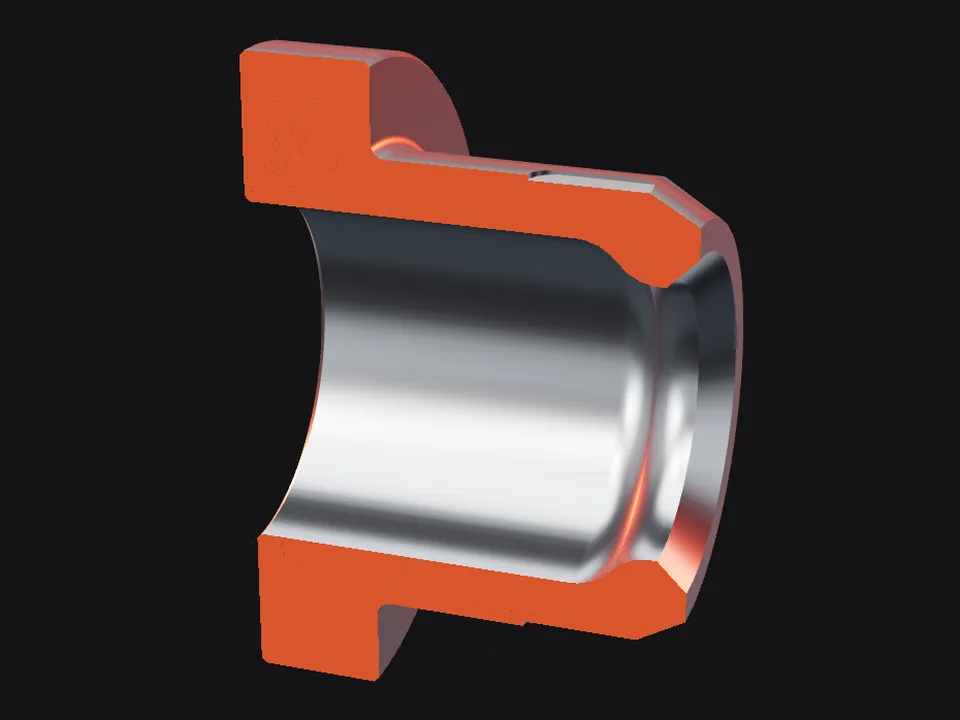
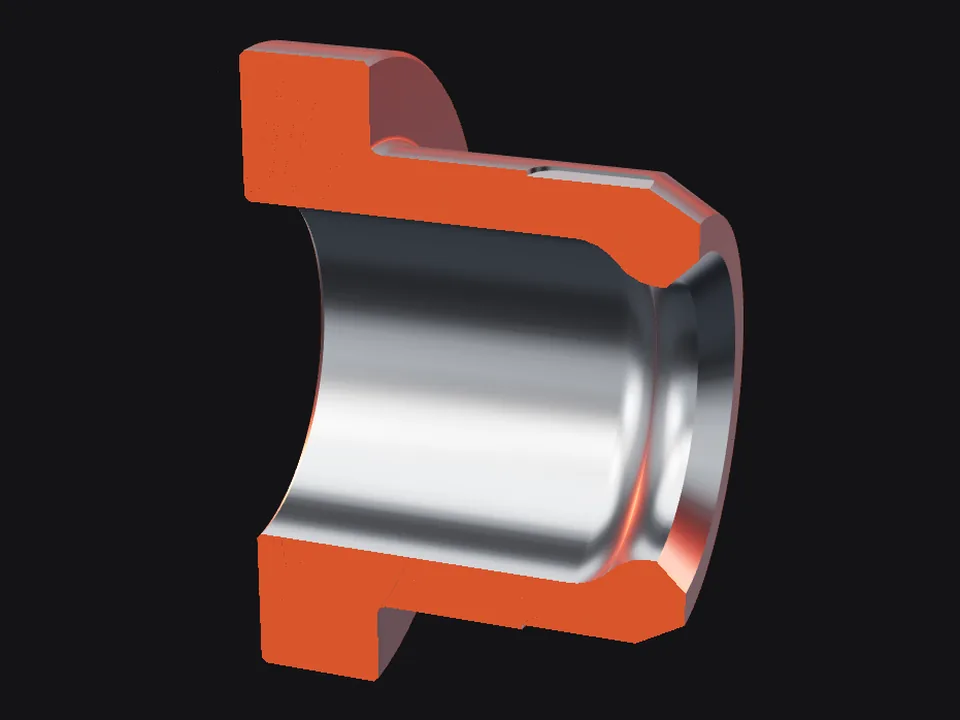
feat(shop): settle the held thrust rings from archive research
- MTB 360 E-type thrust ring (the 4340 sheet; its title was copied from
  the ara burç sheet), MES 4000 old-type ring, MTB 150 greasing-hole ring.
- Montabert BRH 250: our general Ø138.7 ring replaces the one-customer
  (Bulgaria) sheet.
- Rammer S56 oil-groove ring: spigot Ø182 as dimensioned.
- GA (İnan Makina, Furukawa-based), LB (Leetec names), MTB-180 (MTB 220's
  first ring) stay unpublished; reasons in CLAUDE.md.

Claude-Session: https://claude.ai/code/session_01RSQdZzwnmEDvhT42Xh181c

Changed region(s): [[0.375, 0.1833, 0.75, 0.3361], [0.4688, 0.8556, 0.7188, 0.9167], [0.4062, 0.825, 0.4688, 0.8556]]

diff --git a/apps/parts-shop/src/lib/photos.ts b/apps/parts-shop/src/lib/photos.ts
@@ -66,7 +66,8 @@ export interface PartRender {
     | 'typeE'
     | 'typeL'
     | 'typeT'
-    | 'oilGroove';
+    | 'oilGroove'
+    | 'greasingHole';
   views: { base: string; view: RenderView }[];
 }
 
@@ -462,6 +463,12 @@ const MTB_BURC: Bushing[] = [
   { model: '150', file: 'mtb-150-ust', kind: 'upperBushing' },
   { model: '150', file: 'mtb-150-dayama-y', kind: 'thrustRing', variant: 'typeY' },
   { model: '150', file: 'mtb-150-dayama-e', kind: 'thrustRing', variant: 'typeE' },
+  {
+    model: '150',
+    file: 'mtb-150-dayama-yaglama-delikli',
+    kind: 'thrustRing',
+    variant: 'greasingHole',
+  },
   { model: '170', file: 'mtb-170-kafa', kind: 'toolBushing' },
   { model: '170', file: 'mtb-170-ust', kind: 'upperBushing' },
   { model: '170', file: 'mtb-170-dayama-y', kind: 'thrustRing', variant: 'typeY' },
@@ -491,6 +498,7 @@ const MTB_BURC: Bushing[] = [
   { model: '360', file: 'mtb-360-kafa', kind: 'toolBushing' },
   { model: '360', file: 'mtb-360-ust', kind: 'upperBushing' },
   { model: '360', file: 'mtb-360-dayama-y', kind: 'thrustRing', variant: 'typeY' },
+  { model: '360', file: 'mtb-360-dayama-e', kind: 'thrustRing', variant: 'typeE' },
   { model: '500', file: 'mtb-500-kafa', kind: 'toolBushing' },
   { model: '500', file: 'mtb-500-ust', kind: 'thrustRing' },
   { model: '700', file: 'mtb-700-kafa', kind: 'toolBushing' },
@@ -639,7 +647,7 @@ const SOOSAN_BURC: Bushing[] = [
 const MONTABERT_BURC: Bushing[] = [
   { model: 'BRH 125', file: 'montabert-brh-125-kafa', kind: 'toolBushing' },
   { model: 'BRH 250', file: 'montabert-brh-250-kafa', kind: 'toolBushing' },
-  { model: 'BRH 250', file: 'montabert-brh-250-ust', kind: 'thrustRing' },
+  { model: 'BRH 250', file: 'montabert-brh-250-dayama', kind: 'thrustRing' },
   { model: 'BRH 270', file: 'montabert-brh-270-kafa', kind: 'toolBushing' },
   { model: 'BRH 501', file: 'montabert-brh-501-kafa', kind: 'toolBushing' },
   { model: 'BRH 501', file: 'montabert-brh-501-ust', kind: 'thrustRing' },
@@ -802,6 +810,12 @@ const INDECO_BURC: Bushing[] = [
   },
   { model: 'MES 4000', file: 'indeco-mes-4000-kafa', kind: 'toolBushing' },
   { model: 'MES 4000', file: 'indeco-mes-4000-ust', kind: 'thrustRing' },
+  {
+    model: 'MES 4000',
+    file: 'indeco-mes-4000-dayama-eski',
+    kind: 'thrustRing',
+    variant: 'oldType',
+  },
   { model: 'MES 7000', file: 'indeco-mes-7000-kafa', kind: 'toolBushing' },
   { model: 'MES 7000', file: 'indeco-mes-7000-ust', kind: 'spacerBushing' },
   { model: 'MES 7000', file: 'indeco-mes-7000-dayama', kind: 'thrustRing' },

diff --git a/apps/parts-shop/src/lib/dict.ts b/apps/parts-shop/src/lib/dict.ts
@@ -697,6 +697,7 @@ export const DICT: Record<Lang, Dict> = {
         typeL: 'L tipi',
         typeT: 'T tipi',
         oilGroove: 'yağ kanallı',
+        greasingHole: 'yağlama delikli',
       },
       viewer: {
         open: '3B incele',
@@ -1176,6 +1177,7 @@ export const DICT: Record<Lang, Dict> = {
         typeL: 'L type',
         typeT: 'T type',
         oilGroove: 'oil grooves',
+        greasingHole: 'greasing hole',
       },
       viewer: {
         open: 'View in 3D',

diff --git a/CLAUDE.md b/CLAUDE.md
@@ -70,7 +70,7 @@ Unit tests exist only for `@kervan/tips` (Node's built-in runner, `node --experi
 
 ### parts-shop (magaza.kervanbreaker.com) — M1 preview
 
-- **Static, no router, no server code.** Every page is prerendered with its props embedded as JSON (`<script id="kv-page">`) and hydrated by `main.tsx`; links are plain `<a>`. Pages: `/`, `/kirici-ucu` (every breaker model, live search with `?q=` from the home search box, A–Z make chips), `/marka/<make>`, `/cok-satanlar`, `/kirici/<make>/<model>` (the product page, one per breaker model), `/yedek-parca` + `/yedek-parca/{alt-govde,burc,kama,saplama,piston,akumulator,asinma-plakasi}` (the other parts we make: our stock photos, 3D renders of parts modelled from our drawings captioned with the breaker model they fit (`PART_RENDERS` in `src/lib/photos.ts`, e.g. Rammer E68 alt gövde; files in `public/photos/parca/`, same 4:3 naming as the photos; every part also gets a 16:9 showcase picture, `hero`; part renders publish one size only (`-lg`: 1600 px hero, 960 px views, plus the 320 px `-xs` strip thumbnail) because Pages allows at most 20,000 files per deployment (stock photos keep `-sm` + `-lg`), on the dark stage with an ember glow and floor reflection, used as the page lead and the card picture; a part may add an interactive 3D model, `model3d`, a GLB in `public/models/`, immutable, opened on demand by "3B incele" in `PartViewer`, a lazy chunk so three.js loads only on click; drag/pinch/arrow keys turn it, auto-turn stops on touch and is off under reduced motion — the only motion in the shop; its "Kesit" button adds a slider that sweeps a cross-section plane from end to end, the cut face drawn by the back faces in one flat ember tone; 3D is Rammer E68 only, owner's choice; its GLB is the front head with the kafa burcu, üst burç and dayama burcu (thrust ring, seated against the shoulder of the Ø225 bore, puller holes to the rear) fitted, the bushing nodes named `fitted…` so their cut faces show in light steel). The burç page shows our bushings in one strip per make (Rammer incl. E68 with its thrust ring, MTB, Krupp, Atlas Copco incl. HBC / SBC / TEX, Soosan, Montabert, Furukawa, NPK, Indeco, Daemo, Hanwoo, DNB, Cat, MSB incl. SAGA, Toku, Kwanglim, D&A, Topa, Mega, Kent, Kanglim, Okada, Toyo, Jisung, General, Lifton, Tabe, Arrowhead, Komac, Euroram, then the rock-drill thrust rings of Tamrock HL and Atlas Copco COP in their own strips; `burc-<make>-<model>-<kafa|ust>-{vitrin,on,arka,yan,kesit}-01`, lists `*_BURC` in `photos.ts`). Every thrust ring in the archive was gone through (owner: "tüm arşiv"): separate dayama burçları sit next to the model's merkezleme as `<file>-dayama[-<variant>]` (variants from the title block: MTB Y / E types, the E two-piece set modelled without its ara halka; Montabert L / T types; `oldType` by sheet date; Rammer S56 `oilGroove`); the Indeco MES 7000 part first published as a thrust ring is the dayama ara burcu, a spacer clamped behind it (`spacerBushing`). Held for the owner: GA 150 / 200 / 300 / 400 / GA-30 (no make in the title block), sheets that also print LB-200 (MTB 150 greased ring, MTB 150 hava-gres), MTB-180 (filed under MTB 170 / 220), MTB 360E (both sheets titled ara burç), a second Montabert BRH 250 ring and a second MES 4000 design (no type mark), a Furukawa ring with no model; HM 2100 is named Marathon after its folder (title block: HM 2100). `kind` names each in the caption and under the strip thumbnail, from the drawing's title block: kafa burcu = tool/lower bushing, üst burç = upper (merkezleme), dayama burcu = thrust ring, dayama-merkezleme burcu = thrust ring and upper bushing in one piece (owner: label combined ones so), Krupp HM 140 / 190, Atlas Copco SBC 610 and Tabe AGB 375 one piece for all three, Lifton LH 360 and Atlas Copco TEX 700 / 900 one piece kafa-merkezleme (`toolUpperBushing`). The "K" folder is Kent (K 50 / 70 / 90) and KTB is Kanglim (owner). Held back until the owner confirms the make or model: a KHB 20 sheet in the Stanley folder, Jacty VRH-100 in the Lifton folder, Toyo 5000 (title block names only Dehaco), the MSB 800 thrust ring titled LB 350; Toyo bushings use THBB names (no DHB). The kama, saplama and piston pages show the same 20 breaker models (`PART_KIT` in `photos.ts`, one strip per make): the tool pin / key (`retainerKey`), the through bolt "boy saplama" (`tieRod`) and the impact piston, one drawing each (`<part>-<make>-<model>-<view>-01`; kama on/arka/yan, saplama yan/on, piston on/arka/yan/kesit). More parts, one drawing each (`OtherPart` lists in `photos.ts`, files named after the drawing slug): retainer pins (`retainerPin`) join the kama page, side bolts (`sideBolt`) the saplama page; `akumulator` shows accumulator covers / bottoms / bolts and `asinma-plakasi` wear plates (rendered standing on their long edge, generator `standUp`, so the ember rim light does not wash over the large face). Wear plates are drawn in their material (generator `finish`): cast polyurethane in yellow (the colour our drawings give; red for HM 960, as its sheet says), polyamide natural (MTB 85, Rammer E64), steel for S84 (20MnCr5) and the Montabert BRH 501 / BRV 32 plates (tapped bolt holes); sheets without a material (Cat, D&A) are drawn as yellow PU (Cat sells its hammer wear plates as plastic). Left out: the HM 1300 side bolt (owner: same breaker as the unchecked HM 1301), sheets whose title block names another model, one-customer (ÖZEL) sheets, and a retainer-pin bushing that is not a pin. Bushings: left out are drawings whose title block names another model than their folder or that duplicate another sheet, the rough blank (KABA) MTB 250/255, HM 1301 (unchecked, like its front head), Furukawa HD drifters, crossed-out or faulty (HATALI) sheets and the E68 alt gövde adds an assembly section view (`assembly`); the N and City kafa burcu drawings belong to other E68 versions and are not modelled. Renders with a `series` (the 17 Rammer E/G/S front heads, `alt-govde-rammer-<model>-…-01`, led by the E68 with its 3D model (G88 has no window close-up: its nut notches render badly there), the 26 MTB front heads, `alt-govde-mtb-<model>-…-01`, the 23 Krupp HM/AT front heads, `alt-govde-krupp-<model>-…-<v>` (HM 560 and HM 580 share one drawing, shown as one card; HM 900 also has its old type, `variant: 'oldType'`), and 5 Atlas Copco HB/MB heads, `alt-govde-atlas-copco-…` (owner: named Atlas Copco, the badge they were sold under after Atlas Copco bought Krupp's breakers in 2002, now Epiroc; MB 1000 notes the Krupp HM 680 it followed), 15 Soosan SB (old type) / SB TS-P / ST heads, `alt-govde-soosan-…` (SB60, SB81 and SB121 TS-P also come with round tie-rod nuts, `variant: 'roundNut'`; the SH-35G sheet in the Soosan folder is left out: its make could not be confirmed), 14 Montabert BRH / BRM / BRP / BRV / M heads, `alt-govde-montabert-…` (the two off-axis cylinders in their middle bore are milled reliefs, "freze boşaltma"), 16 Furukawa F / HB-G / HB heads (HB30G also as its old type), 5 Okada OKB heads, 9 Toyo THBB heads (THBB 1600 also as its old type; the Dehaco DHB names in the drawing folders are not used: unconfirmed), NPK, Indeco, Daemo, Hanwoo, DNB, Cat, MSB (with SAGA 6000), Toku, Kwanglim, D&A, Topa, Mega and Kent heads plus Atlas Copco TEX 700/900 and 1400 (model names from the title blocks; no "equivalent of" notes, owner's choice; NPK H-7X is the 310-long head drawn outside the frame, the framed 110-long part has no tool-pin and is not a front head; the "DNB S-2000" title block is a Daemo S2000, DNB has no S series; MSB SAGA 8000's sheet draws a tie rod and is left out), and the Tamrock HL 510 front head (`kind: 'rockDrillHead'`: a rock drill, not a breaker, so its own strip and caption; Tamrock owned Rammer from 1995 and became Sandvik in 1997), all generated in `photos.ts` (`seriesRender`; a changed render gets a new file version `v`). The HM 1301 drawing is marked "kontrol edilecek" and is not published; heads without tie-rod windows have no window close-up) share one sideways strip per series of showcase thumbnails (`<hero>-xs.webp`, 320 px) that picks the model shown below it (`SeriesPicker` in `Part.tsx`: one tab stop, arrow/Home/End keys, picking fills the quote's breaker field unless typed and writes `#<make>-<model>`, which also opens a model directly; make jump links above the strips); tip pages list the parts we model for the same breaker and part captions link back (`src/lib/part-links.ts`, build time, matched like the search); the owner makes the front heads, not the cylinders, and a quote by breaker model; no catalogue data yet), `/urun/<family code>` (permanent codes, tips with no listed breaker) (+ `/en/…`), `404.html`. Tips are one spare-part group, never a separate category (owner: "Kırıcı uçları da bir yedek parça"): the header has a category bar under the logo row naming every group (Uç, Alt gövde, Burç, …, `nav.groups`; Uç is current on all tip pages, `TIP_PATHS`) plus Çok satanlar, no umbrella "Yedek parçalar" entry (owner); on phones it scrolls sideways with the current group brought into view, the language link moves to the top contact bar and the quote button shortens (`quoteShort`); no page has a numbers/statistics box (owner removed them), tip pages' breadcrumb is Ana sayfa / Kırıcı yedek parçaları / Kırıcı ucu / …, and site-wide copy says "yedek parça", not "uç ve yedek parça". Search (`@kervan/tips` `search.ts`, unit-tested) folds Turkish i/İ/ı and ç/ş/ğ/ö/ü, spaces and dashes, and when nothing matches suggests a corrected make ("Bunu mu demek istediniz"); it never drops the make or the model number. Breaker names are cleaned up for display by `displayBreakers` (`@kervan/tips`, `breaker-display.ts`): one spelling per make (`BREAKER_BRANDS`, aliases such as "DEMO / Daemo" → Daemo, "IR MONTABERT" → Montabert, typos; MTB models drop the "MT" series prefix, owner's rule), the make taken from the model text when the brand column is empty, lists split; catalogue fragments with no make get no breaker page. Product pages (owner's direction): the breaker make/model is the product name; show only the working diameter (no body dimensions, length or weight, no fitting-breakers list, no Kervan code on the page: it only goes into the quote message, never "generated from dimensions" wording); one tip-type selector over every type the breaker takes (a type comes from the first tip family that has it) swaps the pictures after hydration, the prerender shows the first; then "Stoğumuzdan" (our stock photos, `src/lib/photos.ts`, files in `public/photos/`, 4:3 `-sm`/`-lg` webp, new name to replace) and the "model not listed" WhatsApp box. The pictures come first on phones too (owner), then the selector and quote; a WhatsApp/call bar stays at the bottom. `prerender.mjs` wraps every page in `<!--email_off-->` so Cloudflare's Email Address Obfuscation does not rewrite the prefilled mailto links. No motion in M1 apart from the on-demand 3D viewer. `vite` dev renders the DEMO catalog.
+- **Static, no router, no server code.** Every page is prerendered with its props embedded as JSON (`<script id="kv-page">`) and hydrated by `main.tsx`; links are plain `<a>`. Pages: `/`, `/kirici-ucu` (every breaker model, live search with `?q=` from the home search box, A–Z make chips), `/marka/<make>`, `/cok-satanlar`, `/kirici/<make>/<model>` (the product page, one per breaker model), `/yedek-parca` + `/yedek-parca/{alt-govde,burc,kama,saplama,piston,akumulator,asinma-plakasi}` (the other parts we make: our stock photos, 3D renders of parts modelled from our drawings captioned with the breaker model they fit (`PART_RENDERS` in `src/lib/photos.ts`, e.g. Rammer E68 alt gövde; files in `public/photos/parca/`, same 4:3 naming as the photos; every part also gets a 16:9 showcase picture, `hero`; part renders publish one size only (`-lg`: 1600 px hero, 960 px views, plus the 320 px `-xs` strip thumbnail) because Pages allows at most 20,000 files per deployment (stock photos keep `-sm` + `-lg`), on the dark stage with an ember glow and floor reflection, used as the page lead and the card picture; a part may add an interactive 3D model, `model3d`, a GLB in `public/models/`, immutable, opened on demand by "3B incele" in `PartViewer`, a lazy chunk so three.js loads only on click; drag/pinch/arrow keys turn it, auto-turn stops on touch and is off under reduced motion — the only motion in the shop; its "Kesit" button adds a slider that sweeps a cross-section plane from end to end, the cut face drawn by the back faces in one flat ember tone; 3D is Rammer E68 only, owner's choice; its GLB is the front head with the kafa burcu, üst burç and dayama burcu (thrust ring, seated against the shoulder of the Ø225 bore, puller holes to the rear) fitted, the bushing nodes named `fitted…` so their cut faces show in light steel). The burç page shows our bushings in one strip per make (Rammer incl. E68 with its thrust ring, MTB, Krupp, Atlas Copco incl. HBC / SBC / TEX, Soosan, Montabert, Furukawa, NPK, Indeco, Daemo, Hanwoo, DNB, Cat, MSB incl. SAGA, Toku, Kwanglim, D&A, Topa, Mega, Kent, Kanglim, Okada, Toyo, Jisung, General, Lifton, Tabe, Arrowhead, Komac, Euroram, then the rock-drill thrust rings of Tamrock HL and Atlas Copco COP in their own strips; `burc-<make>-<model>-<kafa|ust>-{vitrin,on,arka,yan,kesit}-01`, lists `*_BURC` in `photos.ts`). Every thrust ring in the archive was gone through (owner: "tüm arşiv"): separate dayama burçları sit next to the model's merkezleme as `<file>-dayama[-<variant>]` (variants from the title block: MTB Y / E types, the E two-piece set modelled without its ara halka; Montabert L / T types; `oldType` by sheet date; Rammer S56 `oilGroove`); the Indeco MES 7000 part first published as a thrust ring is the dayama ara burcu, a spacer clamped behind it (`spacerBushing`). Research notes (archive + web, owner asked to settle them): GA 150 / 200 / 300 / 400 are İnan Makina's (MTB's maker) GA line built on the Furukawa HB 15G / 20G / 30G / 40G rings, GA-30 is the MTB-30: not published as their own cards; LB-200 / LB 350 are Leetec (Korea) drawing names İnan took over (LB-200 = MTB 150, LB 350 = MTB 270 / MSB 800): no LB make, the MTB 150 Leetec greased ring shows as variant `greasingHole`; MTB-180 was the working name of the MTB 220, its 2008 ring was replaced by the published one: not shown; MTB 360E's thrust ring is the 4340 sheet (its title was copied from the ara burç sheet); the Montabert BRH 250 ring is our 2006 Ø138.7 design (OEM lists no thrust ring); the earlier Ø140 sheet was a one-customer (Bulgaria) version and is no longer shown; the short Ø185 MES 3500 / 4000 rings are the 1998-99 designs (`oldType`), the Ø220 flanged ones go with our 2001/2003 front heads; HM 2100 Eco and Marathon share the thrust ring (Krupp 3069081), shown as HM 2100 Marathon; S56's oil-groove ring is a later in-house option of the same drawing (Ø182 spigot as dimensioned). Still held: a Furukawa HB ring with no model (Ø200 × 100, fits none of HB 1000 / 1200 exactly). `kind` names each in the caption and under the strip thumbnail, from the drawing's title block: kafa burcu = tool/lower bushing, üst burç = upper (merkezleme), dayama burcu = thrust ring, dayama-merkezleme burcu = thrust ring and upper bushing in one piece (owner: label combined ones so), Krupp HM 140 / 190, Atlas Copco SBC 610 and Tabe AGB 375 one piece for all three, Lifton LH 360 and Atlas Copco TEX 700 / 900 one piece kafa-merkezleme (`toolUpperBushing`). The "K" folder is Kent (K 50 / 70 / 90) and KTB is Kanglim (owner). Held back until the owner confirms the make or model: a KHB 20 sheet in the Stanley folder, Jacty VRH-100 in the Lifton folder, Toyo 5000 (title block names only Dehaco), the MSB 800 thrust ring titled LB 350; Toyo bushings use THBB names (no DHB). The kama, saplama and piston pages show the same 20 breaker models (`PART_KIT` in `photos.ts`, one strip per make): the tool pin / key (`retainerKey`), the through bolt "boy saplama" (`tieRod`) and the impact piston, one drawing each (`<part>-<make>-<model>-<view>-01`; kama on/arka/yan, saplama yan/on, piston on/arka/yan/kesit). More parts, one drawing each (`OtherPart` lists in `photos.ts`, files named after the drawing slug): retainer pins (`retainerPin`) join the kama page, side bolts (`sideBolt`) the saplama page; `akumulator` shows accumulator covers / bottoms / bolts and `asinma-plakasi` wear plates (rendered standing on their long edge, generator `standUp`, so the ember rim light does not wash over the large face). Wear plates are drawn in their material (generator `finish`): cast polyurethane in yellow (the colour our drawings give; red for HM 960, as its sheet says), polyamide natural (MTB 85, Rammer E64), steel for S84 (20MnCr5) and the Montabert BRH 501 / BRV 32 plates (tapped bolt holes); sheets without a material (Cat, D&A) are drawn as yellow PU (Cat sells its hammer wear plates as plastic). Left out: the HM 1300 side bolt (owner: same breaker as the unchecked HM 1301), sheets whose title block names another model, one-customer (ÖZEL) sheets, and a retainer-pin bushing that is not a pin. Bushings: left out are drawings whose title block names another model than their folder or that duplicate another sheet, the rough blank (KABA) MTB 250/255, HM 1301 (unchecked, like its front head), Furukawa HD drifters, crossed-out or faulty (HATALI) sheets and the E68 alt gövde adds an assembly section view (`assembly`); the N and City kafa burcu drawings belong to other E68 versions and are not modelled. Renders with a `series` (the 17 Rammer E/G/S front heads, `alt-govde-rammer-<model>-…-01`, led by the E68 with its 3D model (G88 has no window close-up: its nut notches render badly there), the 26 MTB front heads, `alt-govde-mtb-<model>-…-01`, the 23 Krupp HM/AT front heads, `alt-govde-krupp-<model>-…-<v>` (HM 560 and HM 580 share one drawing, shown as one card; HM 900 also has its old type, `variant: 'oldType'`), and 5 Atlas Copco HB/MB heads, `alt-govde-atlas-copco-…` (owner: named Atlas Copco, the badge they were sold under after Atlas Copco bought Krupp's breakers in 2002, now Epiroc; MB 1000 notes the Krupp HM 680 it followed), 15 Soosan SB (old type) / SB TS-P / ST heads, `alt-govde-soosan-…` (SB60, SB81 and SB121 TS-P also come with round tie-rod nuts, `variant: 'roundNut'`; the SH-35G sheet in the Soosan folder is left out: its make could not be confirmed), 14 Montabert BRH / BRM / BRP / BRV / M heads, `alt-govde-montabert-…` (the two off-axis cylinders in their middle bore are milled reliefs, "freze boşaltma"), 16 Furukawa F / HB-G / HB heads (HB30G also as its old type), 5 Okada OKB heads, 9 Toyo THBB heads (THBB 1600 also as its old type; the Dehaco DHB names in the drawing folders are not used: unconfirmed), NPK, Indeco, Daemo, Hanwoo, DNB, Cat, MSB (with SAGA 6000), Toku, Kwanglim, D&A, Topa, Mega and Kent heads plus Atlas Copco TEX 700/900 and 1400 (model names from the title blocks; no "equivalent of" notes, owner's choice; NPK H-7X is the 310-long head drawn outside the frame, the framed 110-long part has no tool-pin and is not a front head; the "DNB S-2000" title block is a Daemo S2000, DNB has no S series; MSB SAGA 8000's sheet draws a tie rod and is left out), and the Tamrock HL 510 front head (`kind: 'rockDrillHead'`: a rock drill, not a breaker, so its own strip and caption; Tamrock owned Rammer from 1995 and became Sandvik in 1997), all generated in `photos.ts` (`seriesRender`; a changed render gets a new file version `v`). The HM 1301 drawing is marked "kontrol edilecek" and is not published; heads without tie-rod windows have no window close-up) share one sideways strip per series of showcase thumbnails (`<hero>-xs.webp`, 320 px) that picks the model shown below it (`SeriesPicker` in `Part.tsx`: one tab stop, arrow/Home/End keys, picking fills the quote's breaker field unless typed and writes `#<make>-<model>`, which also opens a model directly; make jump links above the strips); tip pages list the parts we model for the same breaker and part captions link back (`src/lib/part-links.ts`, build time, matched like the search); the owner makes the front heads, not the cylinders, and a quote by breaker model; no catalogue data yet), `/urun/<family code>` (permanent codes, tips with no listed breaker) (+ `/en/…`), `404.html`. Tips are one spare-part group, never a separate category (owner: "Kırıcı uçları da bir yedek parça"): the header has a category bar under the logo row naming every group (Uç, Alt gövde, Burç, …, `nav.groups`; Uç is current on all tip pages, `TIP_PATHS`) plus Çok satanlar, no umbrella "Yedek parçalar" entry (owner); on phones it scrolls sideways with the current group brought into view, the language link moves to the top contact bar and the quote button shortens (`quoteShort`); no page has a numbers/statistics box (owner removed them), tip pages' breadcrumb is Ana sayfa / Kırıcı yedek parçaları / Kırıcı ucu / …, and site-wide copy says "yedek parça", not "uç ve yedek parça". Search (`@kervan/tips` `search.ts`, unit-tested) folds Turkish i/İ/ı and ç/ş/ğ/ö/ü, spaces and dashes, and when nothing matches suggests a corrected make ("Bunu mu demek istediniz"); it never drops the make or the model number. Breaker names are cleaned up for display by `displayBreakers` (`@kervan/tips`, `breaker-display.ts`): one spelling per make (`BREAKER_BRANDS`, aliases such as "DEMO / Daemo" → Daemo, "IR MONTABERT" → Montabert, typos; MTB models drop the "MT" series prefix, owner's rule), the make taken from the model text when the brand column is empty, lists split; catalogue fragments with no make get no breaker page. Product pages (owner's direction): the breaker make/model is the product name; show only the working diameter (no body dimensions, length or weight, no fitting-breakers list, no Kervan code on the page: it only goes into the quote message, never "generated from dimensions" wording); one tip-type selector over every type the breaker takes (a type comes from the first tip family that has it) swaps the pictures after hydration, the prerender shows the first; then "Stoğumuzdan" (our stock photos, `src/lib/photos.ts`, files in `public/photos/`, 4:3 `-sm`/`-lg` webp, new name to replace) and the "model not listed" WhatsApp box. The pictures come first on phones too (owner), then the selector and quote; a WhatsApp/call bar stays at the bottom. `prerender.mjs` wraps every page in `<!--email_off-->` so Cloudflare's Email Address Obfuscation does not rewrite the prefilled mailto links. No motion in M1 apart from the on-demand 3D viewer. `vite` dev renders the DEMO catalog.
 - **Prices, cart, extras:** prices are net USD per SKU in D1 (`skus.price_usd_net_cents`), written by the manual workflow **Shop prices** (`.github/workflows/shop-prices.yml`): paste the owner's price sheet (JSON `PriceSheet` in `packages/tips/src/sql.ts`: `prices` SKU code → cents, `extras` = products sold by breaker model without catalogue geometry (optional working diameter) → table `extra_products` (migration `0002_extras.sql`), `aliases` = more breaker names for existing families); it applies every migration, writes the SQL to `$RUNNER_TEMP` (`scripts/shop-prices.ts` refuses repo paths), executes it and redeploys the shop. The sheet and the pricing policy never enter the repo. Pages show the USD price and the TRY price at the CBRT USD selling rate fetched by `build-catalog.ts` (`catalog.fx`, date shown; USD only if the fetch fails); no "+KDV" label on product pages (owner: prices are net, everyone knows); the cart shows subtotal (excl. VAT), VAT (`VAT_PERCENT` = 20 in `src/lib/price.ts`) and the total incl. VAT in USD and TRY (owner, consumer price rules), and the order message carries all three. **Shop daily rebuild** (`shop-daily.yml`) redeploys the shop every morning so the rate stays current. The cart lives only in the browser (`src/lib/cart.ts`, `localStorage('kv_cart_v1')`): called "palet" on the site (owner): "Palete yükle" on product pages, `/palet` (old `/sepet` 301s via `_redirects`) sends an order request as a WhatsApp or e-mail message (contact fields go only into that message, never stored); no online payment and no user accounts yet (owner agreed: guest order requests first). Delivery copy (owner): "Stoktan aynı gün kargo" (availability row, trust strip, cart note); messages never ask for the lead time. Legal pages (`src/lib/legal.ts`, TR binding + EN translation): `/yasal/{on-bilgilendirme,mesafeli-satis,iade-ve-cayma,kvkk}`, linked from the footer ("Yasal") and the cart; seller details there (`SELLER`) are the registered company's, not `ORG_LEGAL_NAME`. Sales are to consumers too, so consumer rules apply: 14-day withdrawal, free return via our named carrier (only business buyers pay return shipping), custom-made items excluded.
 - **Data lives in D1 `kervan-shop`, never in git.** The manual workflow **Shop data import** (`.github/workflows/shop-import.yml`) reads KV `catalog:v1` / `popular:v1` (namespace id in the repo variable `SHOP_SOURCE_KV_ID`), applies `migrations/0001_init.sql`, runs `scripts/shop-import.ts` into `$RUNNER_TEMP` (refuses paths inside the repo) and executes the SQL, then redeploys the shop. Re-imports update geometry and best-seller tiers only; codes, `published`, prices and stock are the owner's.
 - **Build:** `scripts/build-catalog.ts` queries D1 (`SHOP_D1` + `CLOUDFLARE_API_TOKEN` = secret `CLOUDFLARE_SHOP_DATA_TOKEN`, D1 Edit + KV Read) and writes `.catalog/catalog.json` (gitignored) through `toPublicCatalog` (whitelist). Without the token it writes the DEMO catalog (`XX…` codes, DEMO banner); repo variable `SHOP_REQUIRE_CATALOG=1` makes main deploys fail instead. Turbo never caches this build. `scripts/check-dist.mjs` fails the build if a page lacks `noindex` / props or any file contains a forbidden string (`vega`, `VT` + 7 digits, private D1 column names).
